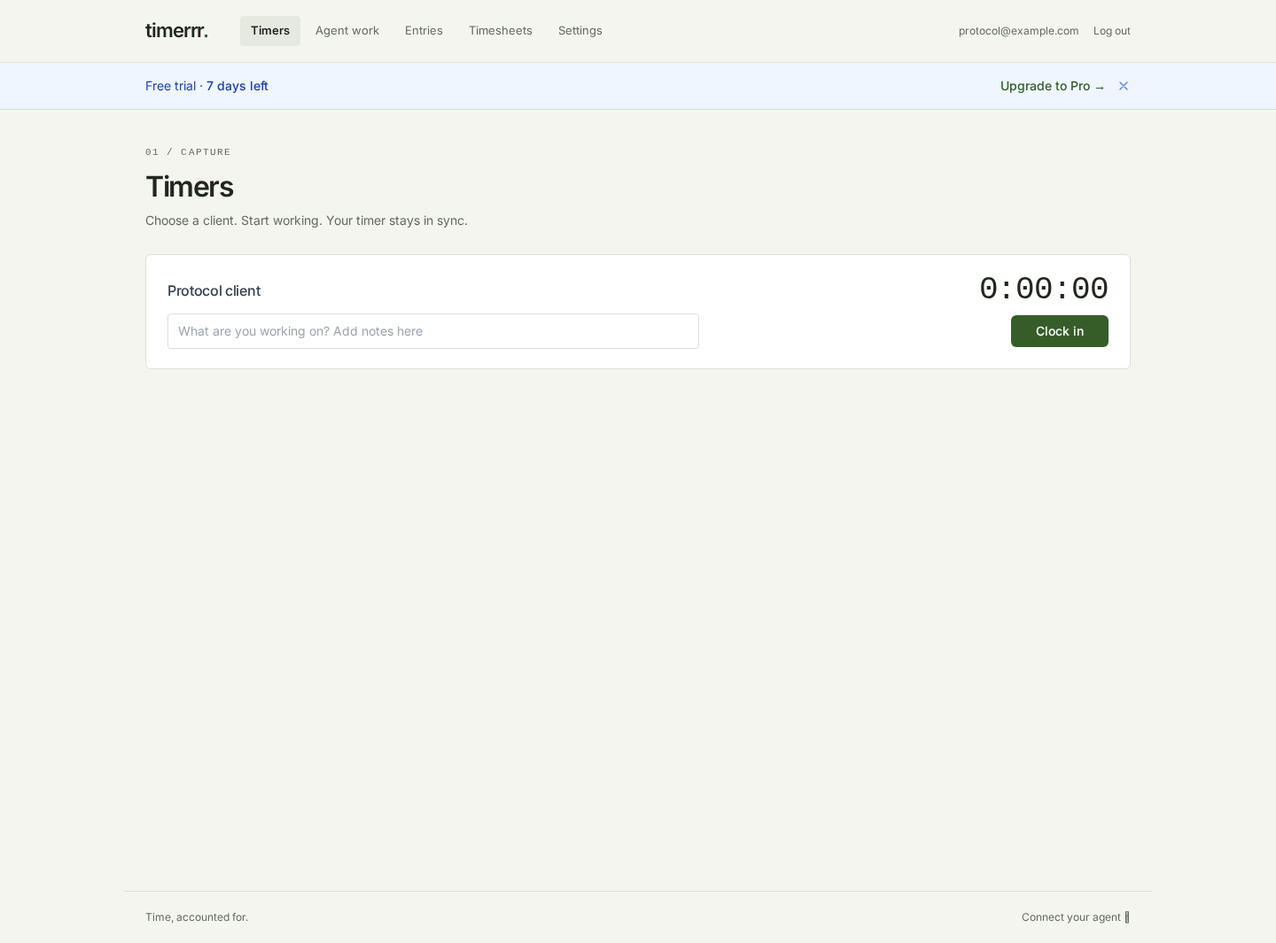
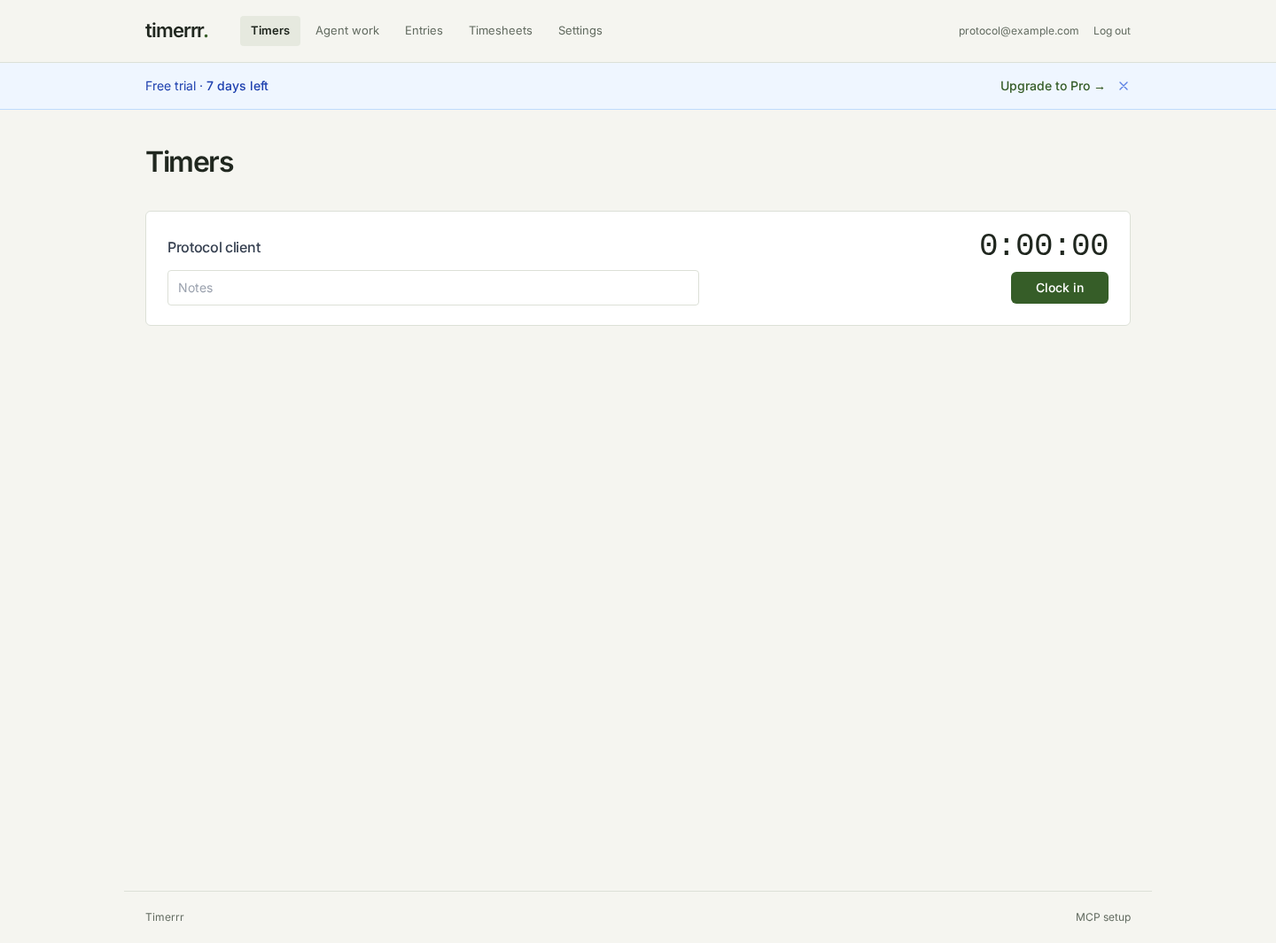
Simplify app copy and add agent setup prompt

diff --git a/app/static/js/work.js b/app/static/js/work.js
@@ -59,6 +59,11 @@
             if (button) button.disabled = false;
         }
     }
+    function shortWarning(text) {
+        if (text.startsWith('No human effort')) return 'No human time recorded.';
+        if (text.startsWith('An agent disconnected')) return 'Agent disconnected. Time capped at its last lease.';
+        return text;
+    }
     const metric = (label, value) => `<div class="metric"><dt>${label}</dt><dd>${duration(value)}</dd></div>`;
 
     function renderWork() {
@@ -69,10 +74,10 @@
             return `<article class="panel work-card" id="work-${w.id}"><div class="panel-head"><div><span class="eyebrow">${escape(w.client_name)} / #${w.id}</span><h3>${escape(w.title)}</h3></div><span class="badge ${w.finished_at?'':'active'}">${w.approved_at?'Reviewed':w.finished_at?'Finished':'Open'}</span></div>
             <dl class="metrics">${metric('Elapsed',w.elapsed_seconds)}${metric('Human effort',w.human_seconds)}${metric('Agent total',w.agent_seconds)}${metric('Waiting',w.waiting_seconds)}</dl>
             <p class="quiet mono">Agent budget ${w.finished_at?'unused':'remaining'} ${duration(w.budget_remaining_seconds)} · ${w.spans.filter(s=>!s.ended_at&&s.actor_kind==='agent').length} agents active</p>
-            ${w.warnings.map(t=>`<p class="notice">${escape(t)}</p>`).join('')}
+            ${w.warnings.map(t=>`<p class="notice">${escape(shortWarning(t))}</p>`).join('')}
             ${!w.finished_at?`<div class="action-row"><button class="btn" data-work="${w.id}" data-action="human" data-active="${human}">${human?'Pause my work':'Resume my work'}</button><button class="btn" data-work="${w.id}" data-action="waiting" data-active="${waiting}">${waiting?'Stop waiting':'Track waiting'}</button><button class="btn" data-work="${w.id}" data-action="evidence">Add evidence</button><button class="btn btn-primary" data-work="${w.id}" data-action="finish">Finish session</button></div>`:''}
-            <details data-receipt="${w.id}" ${open.has(String(w.id))?'open':''}><summary>Receipt · actors, events, and evidence</summary><ul class="receipt-events">${w.spans.map(s=>`<li><span class="badge">${escape(s.actor_kind)}</span> ${escape(s.actor_id)} · <span class="mono">${duration(s.seconds)}</span> <span class="quiet">${escape(s.stop_reason||'active')}</span></li>`).join('')}</ul><ol class="receipt-events">${w.events.map(e=>`<li><time>${escape(new Date(e.at).toLocaleString())}</time> · ${escape(e.kind.replaceAll('_',' '))}<div class="quiet">${escape(e.actor_id||'')} · ${escape(e.source)}</div><div>${escape(e.data.text||e.data.summary||'')}</div>${e.data.url?`<a href="${escape(e.data.url)}" target="_blank" rel="noopener noreferrer">${escape(e.data.url)}</a>`:''}</li>`).join('')}</ol><button class="btn" data-action="download" data-work="${w.id}">Download receipt JSON</button></details></article>`;
-        }).join('') : '<div class="panel empty-state">No work sessions yet. Start your first session above or connect an agent.</div>';
+            <details data-receipt="${w.id}" ${open.has(String(w.id))?'open':''}><summary>Receipt</summary><ul class="receipt-events">${w.spans.map(s=>`<li><span class="badge">${escape(s.actor_kind)}</span> ${escape(s.actor_id)} · <span class="mono">${duration(s.seconds)}</span> <span class="quiet">${escape(s.stop_reason||'active')}</span></li>`).join('')}</ul><ol class="receipt-events">${w.events.map(e=>`<li><time>${escape(new Date(e.at).toLocaleString())}</time> · ${escape(e.kind.replaceAll('_',' '))}<div class="quiet">${escape(e.actor_id||'')} · ${escape(e.source)}</div><div>${escape(e.data.text||e.data.summary||'')}</div>${e.data.url?`<a href="${escape(e.data.url)}" target="_blank" rel="noopener noreferrer">${escape(e.data.url)}</a>`:''}</li>`).join('')}</ol><button class="btn" data-action="download" data-work="${w.id}">Download JSON</button></details></article>`;
+        }).join('') : '<div class="panel empty-state">No sessions yet.</div>';
         $('more-work').classList.toggle('hidden', !nextBefore);
     }
     async function loadWork(older = false) {
@@ -162,7 +167,7 @@
         dialog.id = 'evidence-dialog';
         dialog.className = 'panel';
         dialog.style.maxWidth = '500px';
-        dialog.innerHTML = '<form class="form-grid"><h2 class="form-wide">Add evidence</h2><label class="form-wide">Note<textarea name="text" required maxlength="4000" rows="3"></textarea></label><label class="form-wide">Artifact URL · optional<input name="url" type="url" maxlength="2000" placeholder="https://…"></label><div class="action-row form-wide"><button class="btn btn-primary">Save evidence</button><button class="btn" type="button" id="cancel-evidence">Cancel</button></div><p class="quiet form-wide" role="alert" id="evidence-error"></p></form>';
+        dialog.innerHTML = '<form class="form-grid"><h2 class="form-wide">Add evidence</h2><label class="form-wide">Note<textarea name="text" required maxlength="4000" rows="3"></textarea></label><label class="form-wide">Link · optional<input name="url" type="url" maxlength="2000" placeholder="https://…"></label><div class="action-row form-wide"><button class="btn btn-primary">Save evidence</button><button class="btn" type="button" id="cancel-evidence">Cancel</button></div><p class="quiet form-wide" role="alert" id="evidence-error"></p></form>';
         document.body.append(dialog);
         dialog.showModal();
         dialog.querySelector('#cancel-evidence').onclick = () => dialog.close();
@@ -237,8 +242,8 @@
 
     function renderDraft(d) {
         const section = $('draft-review');
-        section.innerHTML = `<hr class="section-divider"><h2>Draft #${d.id}${d.approved_at?' · reviewed':''}</h2>${d.limitations.map(x=>`<p class="quiet">${escape(x)}</p>`).join('')}<p class="quiet">${d.receipts.length} sessions · ${d.rows.length} proposed human intervals. Times below use your local timezone.</p>${d.receipts.map(r=>`<p class="quiet"><a href="#work-${r.id}">Receipt #${r.id}</a> · ${escape(r.title)}${r.warnings.length?' — '+escape(r.warnings.join(' ')):''}</p>`).join('')}
-        ${d.approved_at?`<p class="notice">${d.approval.rows.length} time entries created. <a href="/entries">View entries →</a></p>`:`<form id="approve-form">${d.rows.map(r=>`<div class="draft-row" data-row="${r.row_id}"><input type="checkbox" name="include" checked aria-label="Include interval for ${escape(r.notes)}"><div><span class="quiet">Receipt #${r.work_id}</span><div class="form-grid"><label>Start<input name="start" type="datetime-local" step="0.001" required value="${localValue(r.start_time)}"></label><label>End<input name="end" type="datetime-local" step="0.001" required value="${localValue(r.end_time)}"></label><label class="form-wide">Entry notes<input name="notes" maxlength="4000" value="${escape(r.notes)}"></label></div></div></div>`).join('')}<p class="quiet">Unchecked intervals are excluded. Reviewing closes all sessions in this draft to further conversion.</p><div class="action-row"><button class="btn btn-primary" ${d.receipts.length?'':'disabled'}>Approve reviewed intervals</button></div></form>`}`;
+        section.innerHTML = `<hr class="section-divider"><h2>Draft #${d.id}${d.approved_at?' · reviewed':''}</h2><details><summary>Draft rules</summary>${d.limitations.map(x=>`<p class="quiet">${escape(x)}</p>`).join('')}</details><p class="quiet">${d.receipts.length} sessions · ${d.rows.length} human intervals · local time</p>${d.receipts.map(r=>`<p class="quiet"><a href="#work-${r.id}">Receipt #${r.id}</a> · ${escape(r.title)}${r.warnings.length?' — '+escape(r.warnings.map(shortWarning).join(' ')):''}</p>`).join('')}
+        ${d.approved_at?`<p class="notice">${d.approval.rows.length} time entries created. <a href="/entries">View entries →</a></p>`:`<form id="approve-form">${d.rows.map(r=>`<div class="draft-row" data-row="${r.row_id}"><input type="checkbox" name="include" checked aria-label="Include interval for ${escape(r.notes)}"><div><span class="quiet">Receipt #${r.work_id}</span><div class="form-grid"><label>Start<input name="start" type="datetime-local" step="0.001" required value="${localValue(r.start_time)}"></label><label>End<input name="end" type="datetime-local" step="0.001" required value="${localValue(r.end_time)}"></label><label class="form-wide">Entry notes<input name="notes" maxlength="4000" value="${escape(r.notes)}"></label></div></div></div>`).join('')}<p class="quiet">Only checked intervals are added. All sessions in this draft are marked reviewed.</p><div class="action-row"><button class="btn btn-primary" ${d.receipts.length?'':'disabled'}>Approve reviewed intervals</button></div></form>`}`;
         section.querySelectorAll('input[type=datetime-local]').forEach(input => input.dataset.initialValue = input.value);
         $('approve-form')?.addEventListener('submit', e => {
             e.preventDefault();

diff --git a/app/templates/index.html b/app/templates/index.html
@@ -20,21 +20,24 @@
 {% endblock %}
 {% block content %}
     <div class="public-wrap">
+        <button class="agent-setup-banner" id="copy-agent-setup" type="button"
+                data-prompt="Fetch and execute the appropriate instructions to set me up for Timerrr from https://timerrr.app/agent-setup/prompt.md">
+            <span>Set up your agent</span>
+            <span class="mono" id="setup-copy-status" role="status" aria-live="polite">Copy prompt</span>
+        </button>
+        <div id="setup-copy-fallback" class="panel hidden">
+            <label for="setup-prompt-text">Copy this prompt into your agent</label>
+            <textarea id="setup-prompt-text" rows="3" readonly></textarea>
+        </div>
         <section class="public-hero">
             <div>
-                <div class="eyebrow">For independent work. And the agents helping with it.</div>
-                <h1>
-                    Good work.
-                    <br>
-                    Clear time.
-                </h1>
-                <p>One click to track your time. A separate clock for your agents. A clear record of what happened, ready for your review.</p>
-                <div class="action-row"><a href="/register" class="btn btn-primary">Start your 7-day trial →</a><a href="/guides/mcp" class="btn">Connect an agent</a></div>
+                <h1>Time tracking.</h1>
+                <div class="action-row"><a href="/register" class="btn btn-primary">Start free trial</a></div>
                 <p style="font-size:12px;
-                          margin-top:16px">$7/month after your trial. Client timers, work receipts, and CSV timesheets.</p>
+                          margin-top:16px">7 days free. Then $7/month.</p>
             </div>
             <div class="panel">
-                <div class="panel-head"><span class="eyebrow" style="margin:0">Try a timer · demo only</span><span class="badge" id="demo-state">Ready</span></div>
+                <div class="panel-head"><span class="eyebrow" style="margin:0">Demo · not saved</span><span class="badge" id="demo-state">Ready</span></div>
                 <h2>Acme / Checkout fix</h2>
                 <div class="mono"
                      style="font-size:54px;
@@ -42,8 +45,8 @@
                             margin:30px 0"
                      id="demo-clock"
                      role="timer">0:00:00</div>
-                <label for="demo-notes">What are you working on?</label><input id="demo-notes"
-       placeholder="Add a note to your work"
+                <label for="demo-notes">Notes</label><input id="demo-notes"
+       placeholder="Optional"
        style="width:100%;
               margin:8px 0 18px">
                 <div class="action-row">
@@ -51,51 +54,15 @@
                             class="btn btn-primary">Start timer</button><button id="demo-reset"
         class="btn">Reset</button>
                 </div>
-                <p class="quiet"
-                   style="margin:18px 0 0">Try it here. This demo stays in your browser and is not saved.</p>
             </div>
         </section>
         <section class="public-section">
-            <div class="eyebrow">A record that matches the work</div>
-            <h2>Your time and agent time tell different stories.</h2>
-            <div class="feature-grid">
-                <div>
-                    <span class="mono quiet">01 / Capture</span>
-                    <h3>Keep your hands on the work.</h3>
-                    <p>Start a client timer in one click. Notes and running timers stay in sync across your devices.</p>
-                </div>
-                <div>
-                    <span class="mono quiet">02 / Delegate</span>
-                    <h3>Give agents their own clock.</h3>
-                    <p>Record parallel execution, set an elapsed time budget, and link the output to a work receipt.</p>
-                </div>
-                <div>
-                    <span class="mono quiet">03 / Review</span>
-                    <h3>Know what enters a timesheet.</h3>
-                    <p>Review proposed human intervals and correct overlaps. Agent minutes never automatically become human billable hours.</p>
-                </div>
-            </div>
-        </section>
-        <section class="public-section"><div class="eyebrow">Parallel work, explained</div><h2>Three agents. Ten minutes. How much time?</h2><p class="quiet">Ten elapsed minutes and thirty agent-minutes. Human effort is a separate measurement.</p>{% include "calculator.html" %}<a href="/guides/parallel-time">See how the calculation works →</a></section>
-        <section class="public-section feature-grid">
-            <div>
-                <h3>Use it from your agent.</h3>
-                <p>The MCP bridge lets a compatible host start sessions, add evidence, read receipts, and prepare drafts.</p>
-                <a href="/guides/mcp">Read the setup guide →</a>
-            </div>
-            <div>
-                <h3>A budget that stops a command.</h3>
-                <p>The optional local runner enforces an elapsed cutoff and renews execution leases. It works with commands you choose to run.</p>
-                <a href="/guides/mcp#runner">Use the runner →</a>
-            </div>
-            <div>
-                <h3>Keep a work receipt.</h3>
-                <p>Review actor activity, linked artifacts, notes, and uncertainty. Download the record as JSON.</p>
-                <a href="/guides/agent-timekeeping">Understand the accounting →</a>
-            </div>
+            <h2>Parallel time</h2>
+            {% include "calculator.html" %}
         </section>
     </div>
     <script src="{{ url_for('static', filename='js/calculator.js') }}" defer></script>
+    <script src="{{ url_for('static', filename='js/agent-setup.js') }}" defer></script>
     <script>
         (() => {
             let running = false,

diff --git a/app/templates/work.html b/app/templates/work.html
@@ -4,22 +4,20 @@
 <div class="max-w-6xl mx-auto px-4 sm:px-6 py-6 sm:py-10" id="work-app" data-csrf="{{ csrf_token }}">
     <div class="page-heading">
         <div>
-            <div class="eyebrow">02 / Delegate</div>
-            <h1>Work together. Account separately.</h1>
-            <p>Human effort, agent execution, and waiting—with a receipt for each session.</p>
+            <h1>Agent work</h1>
         </div>
-        <a class="btn" href="/guides/mcp">Connection guide ↗</a>
+        <a class="btn" href="/guides/mcp">MCP setup</a>
     </div>
     <div id="work-message" class="notice status-message" role="status" aria-live="polite"></div>
     <div class="work-layout">
         <div>
             <section class="panel">
-                <h2>Start a session</h2>
+                <h2>New session</h2>
                 {% if clients %}
                 <form id="start-work" class="form-grid">
                     <label class="form-wide">
-                        What are you working on?
-                        <input name="title" required maxlength="300" placeholder="e.g. Acme checkout fix">
+                        Task
+                        <input name="title" required maxlength="300" placeholder="Checkout fix">
                     </label>
                     <label>
                         Client
@@ -30,12 +28,11 @@
                         </select>
                     </label>
                     <label>
-                        Agent budget · elapsed minutes
+                        Agent deadline · minutes from start
                         <input name="budget" type="number" min="1" max="1440" value="20" required>
                     </label>
                     <div class="form-wide action-row">
                         <button class="btn btn-primary" type="submit">Start my work</button>
-                        <span class="quiet">Starts your human timer. Agents can join this session.</span>
                     </div>
                 </form>
                 {% else %}
@@ -44,7 +41,7 @@
                 {% endif %}
             </section>
             <div class="panel-head">
-                <h2>Work sessions</h2>
+                <h2>Sessions</h2>
                 <button id="refresh-work" class="btn">Refresh</button>
             </div>
             <div id="work-list">
@@ -52,9 +49,7 @@
             </div>
             <button id="more-work" class="btn hidden">Load older sessions</button>
             <section class="panel" id="review">
-                <div class="eyebrow">Human review</div>
-                <h2>Reconstruct a timesheet</h2>
-                <p class="quiet">Use finished sessions as evidence. Review proposed human intervals before adding them to Entries.</p>
+                <h2>Timesheet draft</h2>
                 <form id="draft-form">
                     <div class="form-grid">
                         <label>From · local date<input name="start" type="date" required></label>
@@ -67,21 +62,12 @@
             </section>
         </div>
         <aside>
-            <section class="panel">
-                <div class="eyebrow">How time adds up</div>
-                <h2>Three clocks. One record.</h2>
-                <p class="quiet"><strong>Human</strong> is the union of your recorded effort.</p>
-                <p class="quiet"><strong>Agent</strong> adds execution across actors. Parallel agents accumulate time together.</p>
-                <p class="quiet"><strong>Waiting</strong> is explicitly recorded and excluded from proposed billable time.</p>
-                <a class="quiet" href="/guides/parallel-time">Explore the calculator ↗</a>
-            </section>
             <section class="panel" id="connections">
-                <div class="eyebrow">Connections</div>
-                <h2>Give an agent access</h2>
-                <p class="quiet">Tokens expire after 90 days. Save the token when it appears; it is only shown once.</p>
+                <h2>Connections</h2>
+                <p class="quiet">Tokens expire after 90 days.</p>
                 <form id="token-form">
                     <label class="form-grid">
-                        Connection name
+                        Name
                         <input name="name" required maxlength="100" placeholder="My workstation">
                     </label>
                     <div class="action-row">
@@ -92,6 +78,7 @@
                     <div class="action-row"><button class="btn" type="submit">Create token</button></div>
                 </form>
                 <div id="new-token" hidden>
+                    <p class="quiet">Copy this token. It is shown only once.</p>
                     <code class="token-output" id="token-value"></code>
                     <button class="btn" id="hide-token">Hide token</button>
                 </div>

diff --git a/app/templates/timer.html b/app/templates/timer.html
@@ -5,7 +5,7 @@
 {% block content %}
 <div class="max-w-6xl mx-auto px-4 sm:px-6 py-6 sm:py-10">
     <!-- Page Title Section -->
-    <div class="page-heading"><div><div class="eyebrow">01 / Capture</div><h1>Timers</h1><p>Choose a client. Start working. Your timer stays in sync.</p></div></div>
+    <div class="page-heading"><h1>Timers</h1></div>
 
     <p id="timer-feedback" class="status-message notice error" role="alert"></p>
     <!-- Timer Cards Container -->
@@ -38,7 +38,7 @@
                     <div class="flex flex-col sm:flex-row sm:items-center sm:justify-between gap-2">
                         <input type="text"
                             class="timer-notes w-full sm:w-1/3 px-2.5 py-1.5 border border-gray-200 rounded-md text-sm text-gray-700 placeholder-gray-400 focus:outline-none focus:ring-2 focus:ring-blue-500 focus:border-blue-500 bg-gray-50"
-                            placeholder="What are you working on? Add notes here"
+                            placeholder="Notes"
                             value="{% if item.running_timer %}{{ item.running_timer.notes or '' }}{% endif %}"
                             data-timer-id="{% if item.running_timer %}{{ item.running_timer.id }}{% endif %}"
                             {% if not item.running_timer %}disabled{% endif %}>
@@ -53,8 +53,8 @@
             {% endfor %}
         {% else %}
             <div class="bg-white rounded-lg shadow-sm border border-gray-200 p-8 text-center">
-                <p class="text-gray-500 mb-4">No clients found. Create a client to start tracking time.</p>
-                <a href="/settings" class="text-blue-600 hover:text-blue-700 font-medium">Go to Settings</a>
+                <p class="text-gray-500 mb-4">No clients yet.</p>
+                <a href="/settings" class="text-blue-600 hover:text-blue-700 font-medium">Add client</a>
             </div>
         {% endif %}
     </div>

diff --git a/app/templates/public_base.html b/app/templates/public_base.html
@@ -8,7 +8,7 @@
               content="{{ description|default('Track your time and your agents’ execution separately. Client timers, work receipts, MCP tools, and reviewed CSV timesheets.') }}">
         <link rel="canonical" href="https://timerrr.app{{ request.path }}">
         <meta property="og:title"
-              content="{{ page_title|default('Time, accounted for.') }} · Timerrr">
+              content="{{ page_title|default('Time tracking') }} · Timerrr">
         <meta property="og:type" content="website">
         <meta property="og:url" content="https://timerrr.app{{ request.path }}">
         <meta property="og:description"
@@ -21,4 +21,4 @@
         {% block metadata %}{% endblock %}</head><body><a class="skip-link" href="#main-content">Skip to content</a><header class="app-header"><div class="header-inner"><a class="wordmark" href="/">timerrr<span>.</span></a><nav class="public-nav"
      aria-label="Main navigation"
      style="margin-left:auto"><a class="nav-secondary" href="/guides/parallel-time">Calculator</a><a href="/guides/mcp">MCP guide</a><a href="/login">Log in</a><a class="btn btn-primary" href="/register">Start tracking</a></nav></div></header>
-        <main id="main-content">{% block content %}{% endblock %}</main><footer class="app-footer"><span>Timerrr · Time, accounted for.</span><a href="/guides/agent-timekeeping">How time is counted</a><a href="/guides/mcp">MCP documentation</a></footer></body></html>
+        <main id="main-content">{% block content %}{% endblock %}</main><footer class="app-footer"><span>Timerrr</span><a href="/guides/agent-timekeeping">Time accounting</a><a href="/guides/mcp">MCP setup</a></footer></body></html>

diff --git a/app/templates/timesheets.html b/app/templates/timesheets.html
@@ -4,10 +4,10 @@
 
 {% block content %}
 <div class="max-w-6xl mx-auto px-4 sm:px-6 py-6 sm:py-10">
-    <div class="page-heading"><div><div class="eyebrow">04 / Export</div><h1>Timesheets</h1><p>Turn reviewed time into a client-ready CSV.</p></div></div>
+    <div class="page-heading"><h1>Timesheets</h1></div>
 
     <div class="bg-white rounded-lg shadow-sm border border-gray-200 p-4 sm:p-5 mb-5 sm:mb-6">
-        <h2 class="text-base font-medium text-gray-700 mb-4">Generate New Timesheet</h2>
+        <h2 class="text-base font-medium text-gray-700 mb-4">New timesheet</h2>
 
         <div class="space-y-4">
             <div class="grid grid-cols-1 sm:grid-cols-2 lg:grid-cols-3 gap-3">
@@ -62,7 +62,7 @@
     </div>
 
     <div class="bg-white rounded-lg shadow-sm border border-gray-200 p-4 sm:p-5">
-        <h2 class="text-base font-medium text-gray-700 mb-4">Generated Timesheets</h2>
+        <h2 class="text-base font-medium text-gray-700 mb-4">Saved timesheets</h2>
         <div id="timesheets-container">
             <div class="text-center py-8">
                 <p class="text-gray-500 text-sm">Loading timesheets...</p>

diff --git a/app/static/js/agent-setup.js b/app/static/js/agent-setup.js
@@ -1,0 +1,23 @@
+(() => {
+    const button = document.getElementById('copy-agent-setup');
+    if (!button) return;
+    const status = document.getElementById('setup-copy-status');
+    const fallback = document.getElementById('setup-copy-fallback');
+    const text = document.getElementById('setup-prompt-text');
+    button.addEventListener('click', async () => {
+        button.disabled = true;
+        try {
+            await navigator.clipboard.writeText(button.dataset.prompt);
+            status.textContent = 'Copied · paste in your agent';
+            fallback.classList.add('hidden');
+        } catch {
+            text.value = button.dataset.prompt;
+            fallback.classList.remove('hidden');
+            text.focus();
+            text.select();
+            status.textContent = 'Select and copy below';
+        } finally {
+            button.disabled = false;
+        }
+    });
+})();

diff --git a/app/templates/calculator.html b/app/templates/calculator.html
@@ -9,11 +9,11 @@
        required></label><label for="calc-human">Human effort · minutes<input id="calc-human" type="number" min="0" max="1440" value="5" required>
             </label>
         </div>
-        <p class="quiet">Assumption: all actors start together and work continuously for the specified duration. Human effort can extend beyond agent execution.</p>
+        <p class="quiet">All actors start together and work without pauses.</p>
         <div id="calc-timeline" class="timeline" aria-hidden="true"></div>
         <div id="calc-result"
              class="calculator-result"
              role="status"
              aria-live="polite"></div>
-        <p class="quiet">Elapsed time is the longest duration. Agent-minutes add across agents. Neither number determines what you bill.</p>
+        <p class="quiet">Agent time is not automatically billable.</p>
     </div>

diff --git a/app/templates/settings.html b/app/templates/settings.html
@@ -6,10 +6,10 @@
 <div class="max-w-6xl mx-auto px-4 sm:px-6 py-6 sm:py-10">
     <!-- Page Title -->
     <div class="mb-5 sm:mb-6">
-        <div class="eyebrow">05 / Configure</div><h1 class="text-xl sm:text-2xl font-semibold">Settings</h1>
+        <h1 class="text-xl sm:text-2xl font-semibold">Settings</h1>
     </div>
 
-    <p class="mb-5 text-sm"><a class="text-blue-700 underline" href="/work#connections">Manage agent connections and MCP tokens</a></p>
+    <p class="mb-5 text-sm"><a class="text-blue-700 underline" href="/work#connections">Agent connections</a></p>
     <!-- Profile Section -->
     <div class="bg-white rounded-lg shadow-sm border border-gray-200 p-4 sm:p-5 mb-4 sm:mb-5">
         <h2 class="text-base font-semibold mb-4">Profile</h2>

diff --git a/app/static/css/style.css b/app/static/css/style.css
@@ -884,3 +884,22 @@ dialog::backdrop {
         font-size: 12px;
     }
 }
+
+.agent-setup-banner {
+    display: flex;
+    width: 100%;
+    align-items: center;
+    justify-content: space-between;
+    gap: 16px;
+    margin-top: 24px;
+    padding: 13px 16px;
+    border: 1px solid #d6e4bd;
+    border-radius: 4px;
+    background: #edf4de;
+    color: var(--green);
+    text-align: left;
+}
+.agent-setup-banner:hover { background: #e3edce; }
+.agent-setup-banner .mono { font-size: 12px; text-align: right; }
+#setup-copy-fallback { margin-top: 12px; }
+#setup-prompt-text { display: block; width: 100%; margin-top: 8px; font-family: var(--mono); font-size: 12px; }

diff --git a/app/templates/entries.html b/app/templates/entries.html
@@ -5,7 +5,7 @@
 {% block content %}
 <div class="max-w-6xl mx-auto px-4 sm:px-6 py-6 sm:py-10">
     <!-- Page Title -->
-    <div class="page-heading"><div><div class="eyebrow">03 / Review</div><h1>Entries</h1><p>A clear record of your time. Filter, correct, and keep moving.</p></div></div>
+    <div class="page-heading"><h1>Entries</h1></div>
 
     <!-- Filters Section -->
     <div class="bg-white rounded-lg shadow-sm border border-gray-200 p-4 sm:p-5 mb-4 sm:mb-5">

diff --git a/app/templates/base.html b/app/templates/base.html
@@ -172,6 +172,6 @@
         <!-- Main Content -->
         <main id="main-content" class="min-h-screen">{% block content %}{% endblock %}</main>
 
-        <footer class="app-footer"><span>Time, accounted for.</span><a href="/guides/mcp">Connect your agent ↗</a></footer>
+        <footer class="app-footer"><span>Timerrr</span><a href="/guides/mcp">MCP setup</a></footer>
     </body>
 </html>
